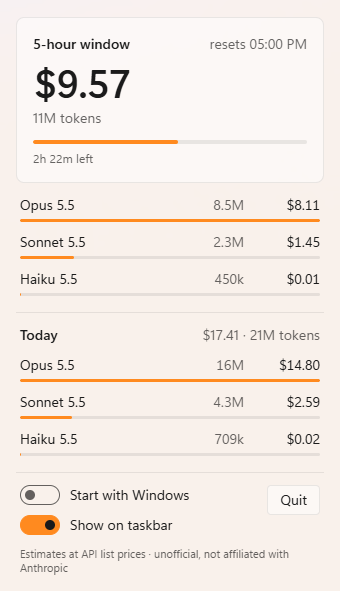
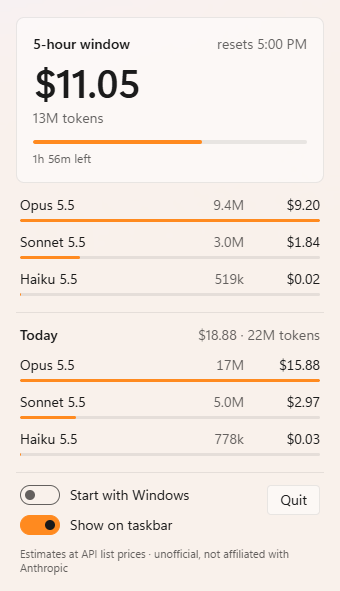
fix(app): verify round 3 findings
- The Windows 10 solid-panel class waits for the document instead of racing it.
- Flyout errors are logged to juice.log through a log command.
- Site and README pictures retaken on this build (reset time in the user's
  clock format); alt text follows them.

diff --git a/ui/main.ts b/ui/main.ts
@@ -1,6 +1,7 @@
 /** Flyout entry: wires the core's snapshots and commands to the view, and sizes the window to its content. */
 import { invoke } from '@tauri-apps/api/core';
 import { listen } from '@tauri-apps/api/event';
+import { report } from './parts.ts';
 import type { Snapshot } from './types.ts';
 import { mount } from './view.ts';
 
@@ -25,11 +26,11 @@ const syncSwitches = async (): Promise<void> => {
 
 // The window hugs its content; the core places it over the tray icon.
 new ResizeObserver(() => {
-  invoke('fit', { height: Math.ceil(root.getBoundingClientRect().height) }).catch((e: unknown) => console.error('juice: fit', e));
+  invoke('fit', { height: Math.ceil(root.getBoundingClientRect().height) }).catch((e: unknown) => report('fit', e));
 }).observe(root);
 
 document.addEventListener('keydown', (e) => {
-  if (e.key === 'Escape') invoke('close').catch((err: unknown) => console.error('juice: close', err));
+  if (e.key === 'Escape') invoke('close').catch((err: unknown) => report('close', err));
 });
 
 try {
@@ -39,7 +40,7 @@ try {
   if (!last) show(first);
   await syncSwitches();
 } catch (e) {
-  console.error('juice: start', e);
+  report('start', e);
   show(last);
 }
 view.enter();
@@ -50,5 +51,5 @@ document.addEventListener('visibilitychange', () => {
   if (document.hidden) return;
   view.render(last, Date.now());
   view.enter();
-  syncSwitches().catch((e: unknown) => console.error('juice: switches', e));
+  syncSwitches().catch((e: unknown) => report('switches', e));
 });

diff --git a/ui/parts.ts b/ui/parts.ts
@@ -1,6 +1,13 @@
 /** Flyout building blocks. Log data only ever lands in textContent, never in HTML. */
+import { invoke } from '@tauri-apps/api/core';
 import { model, money, tokens } from './format.ts';
 import type { ModelRow, Period } from './types.ts';
+
+/** Logs a flyout error to juice.log (release builds have no console) and to the console. */
+export function report(where: string, e: unknown): void {
+  console.error(`juice: ${where}`, e);
+  invoke('log', { message: `${where}: ${String(e)}` }).catch(() => undefined);
+}
 
 /** Element with a class and plain text. */
 export function el<K extends keyof HTMLElementTagNameMap>(tag: K, cls = '', text = ''): HTMLElementTagNameMap[K] {
@@ -81,7 +88,7 @@ export function toggle(label: string, set: (on: boolean) => Promise<boolean>): {
       (on) => (input.checked = on),
       (e: unknown) => {
         input.checked = !want;
-        console.error(`juice: ${label}`, e);
+        report(label, e);
       },
     );
   });

diff --git a/site/index.html b/site/index.html
@@ -23,7 +23,7 @@
       </header>
 
       <figure class="shot bar">
-        <img src="./taskbar.png" alt="Juice on the Windows taskbar next to the tray: an orange dot, $9.57, and the caption 5h · resets 17:00" width="440" height="48" />
+        <img src="./taskbar.png" alt="Juice on the Windows taskbar next to the tray: an orange dot, $11.05, and the caption 5h · resets 5:00 PM" width="440" height="48" />
         <figcaption>Always on the taskbar, like the weather: the 5-hour window's cost and when it resets.</figcaption>
       </figure>
 

diff --git a/src-tauri/src/tray.rs b/src-tauri/src/tray.rs
@@ -165,7 +165,9 @@ fn flyout<R: Runtime>(app: &AppHandle<R>) -> tauri::Result<WebviewWindow<R>> {
     let w = if mica() {
         builder.transparent(true).effects(WindowEffectsConfig { effects: vec![Effect::Mica], ..Default::default() })
     } else {
-        builder.initialization_script("document.documentElement.classList.add('solid')")
+        builder.initialization_script(
+            "document.addEventListener('DOMContentLoaded', () => document.documentElement.classList.add('solid'))",
+        )
     }
     .build()?;
     let handle = app.clone();

diff --git a/src-tauri/src/clock.rs b/src-tauri/src/clock.rs
@@ -1,7 +1,7 @@
-//! Wall-clock times in the user's own Windows short-time format ("5:00 PM" or "17:00"), so they match the taskbar clock.
+//! Wall-clock times in the user's Windows time format without seconds ("5:00 PM" or "17:00"), like the taskbar clock.
 use chrono::{DateTime, Datelike, Local, Timelike};
 
-/// `t` as hours and minutes, the way the taskbar clock writes them.
+/// `t` as hours and minutes in the user's locale.
 pub fn clock(t: DateTime<Local>) -> String {
     #[cfg(windows)]
     if let Some(s) = system(t) {

diff --git a/src-tauri/src/commands.rs b/src-tauri/src/commands.rs
@@ -48,6 +48,12 @@ pub fn set_badge<R: Runtime>(app: AppHandle<R>, on: bool) -> Result<bool, String
     Ok(on)
 }
 
+/// The flyout reports its own errors here, so they land in juice.log with the rest.
+#[tauri::command]
+pub fn log(message: String) {
+    crate::log::warn(format_args!("flyout: {message}"));
+}
+
 /// Quits Juice: tray icon, badge and flyout.
 #[tauri::command]
 pub fn quit<R: Runtime>(app: AppHandle<R>) {

diff --git a/src-tauri/src/main.rs b/src-tauri/src/main.rs
@@ -41,6 +41,7 @@ fn main() {
             commands::set_autostart,
             commands::badge,
             commands::set_badge,
+            commands::log,
             commands::quit,
             tray::close
         ])

diff --git a/README.md b/README.md
@@ -2,7 +2,7 @@
 
 A Windows taskbar meter that shows the tokens and estimated cost of your Claude Code sessions, for the current 5-hour window and today.
 
-![Juice on the taskbar: $9.57, 5h · resets 17:00](site/taskbar.png)
+![Juice on the taskbar: $11.05, 5h · resets 5:00 PM](site/taskbar.png)
 
 ![Juice flyout over the Windows tray](site/flyout.png)
 
